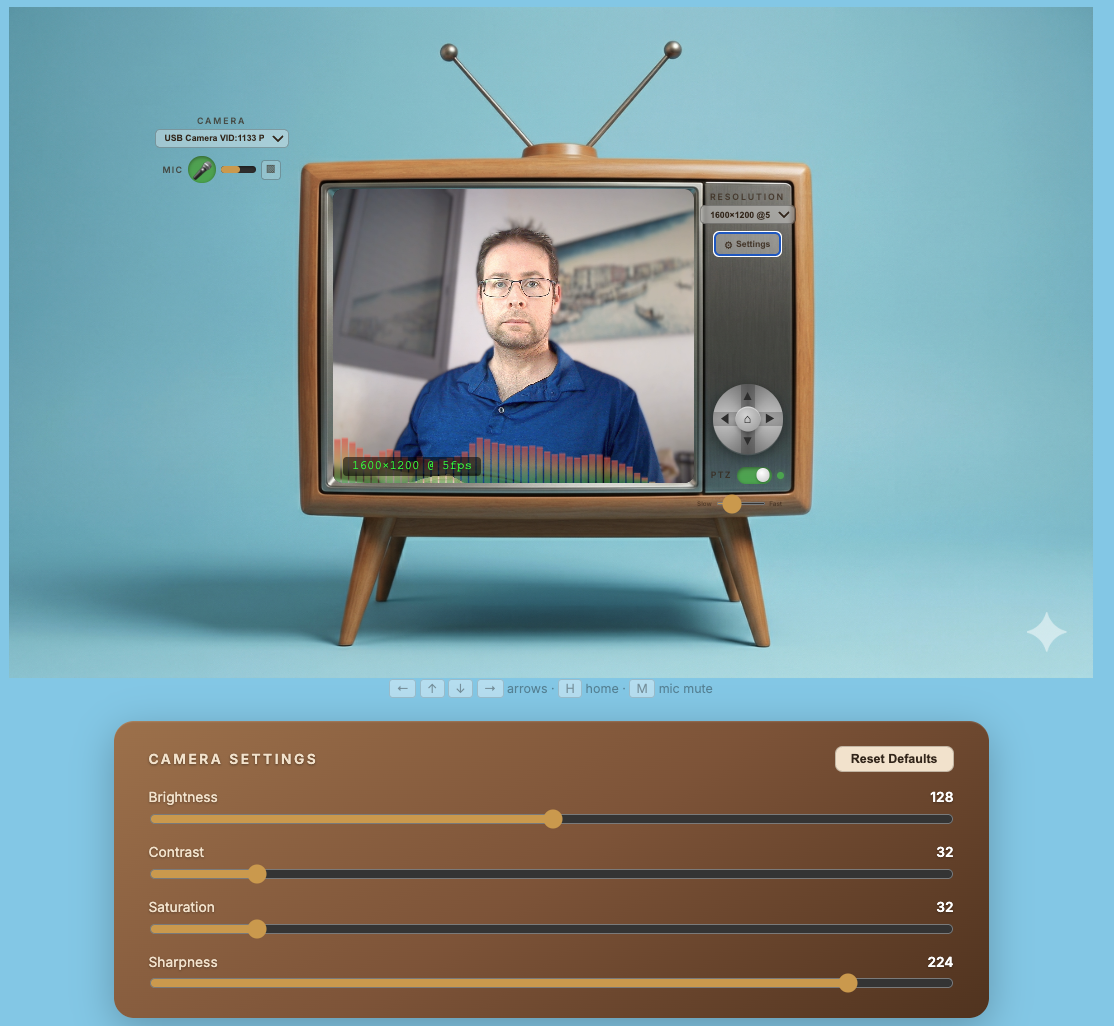
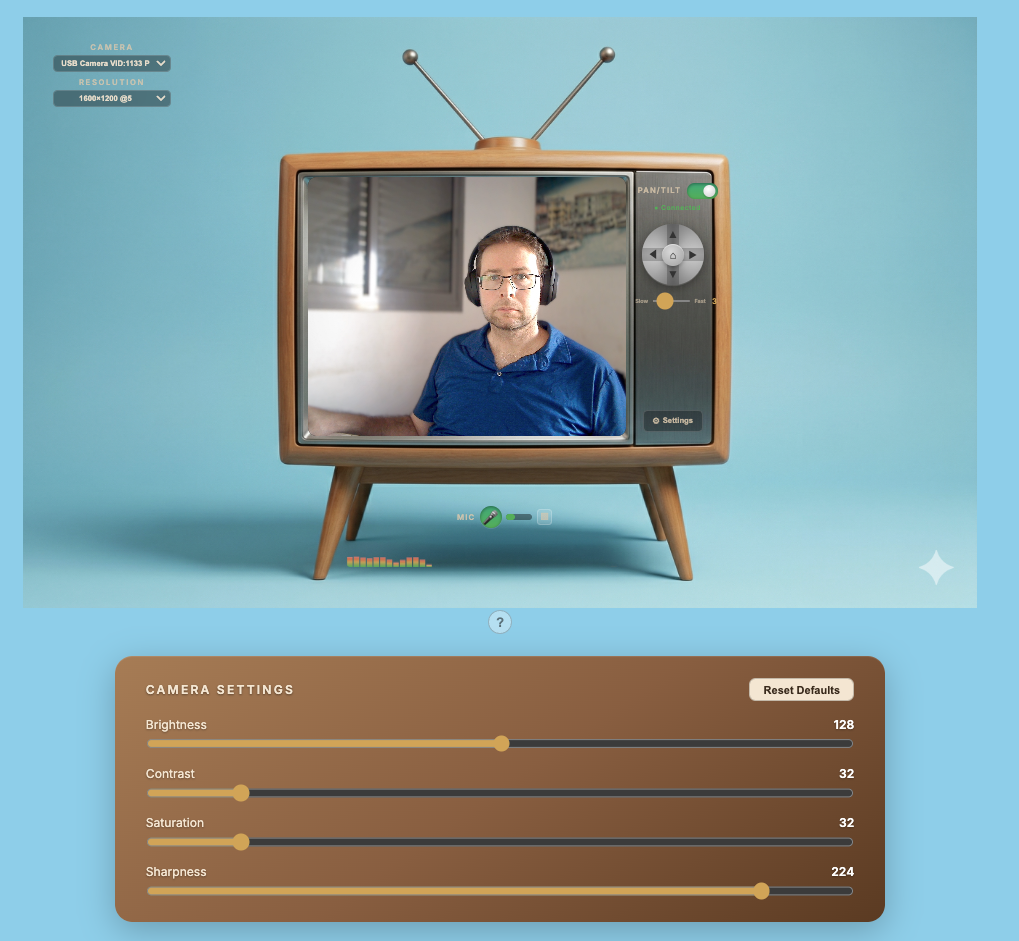
Update UI layout for retro TV interface: adjusted positions of controls for improved usability and alignment. Updated screenshot to reflect changes in the interface.

Changed region(s): [[0.0, 0.0, 1.0, 1.0]]

diff --git a/index.html b/index.html
@@ -551,17 +551,17 @@
   </div>
 
   <!-- Spectrum strip — sits just below the video frame -->
-  <canvas class="spectrum-strip" id="spectrumCanvas" style="top:72%;left:29.5%;width:34%;height:4%"></canvas>
+  <canvas class="spectrum-strip" id="spectrumCanvas" style="top:90.5%;left:33.5%;width:34%;height:4%"></canvas>
 
   <!-- Controls: all on the right panel -->
-  <div class="tv-el" id="el-camera" data-label="Camera Dropdown" style="top:16.5%;left:63%;width:14%">
+  <div class="tv-el" id="el-camera" data-label="Camera Dropdown" style="top:4.5%;left:1.5%;width:14%">
     <div class="cam-wrap">
       <span class="ctrl-lbl">Camera</span>
       <select id="cameraSelect" title="Select camera"><option value="">Loading…</option></select>
     </div>
   </div>
 
-  <div class="tv-el" id="el-mic" data-label="Microphone" style="top:24%;left:63%;width:14%">
+  <div class="tv-el" id="el-mic" data-label="Microphone" style="top:84%;left:43.5%;width:14%">
     <div class="mic-row">
       <span class="mic-lbl">Mic</span>
       <button class="mic-icon" id="micToggle" title="Click to enable mic · Double-click to stop">&#127908;</button>
@@ -570,14 +570,14 @@
     </div>
   </div>
 
-  <div class="tv-el" id="el-resolution" data-label="Resolution" style="top:30.5%;left:63%;width:14%">
+  <div class="tv-el" id="el-resolution" data-label="Resolution" style="top:10.5%;left:1.5%;width:14%">
     <div class="fmt-wrap">
       <span class="ctrl-lbl">Resolution</span>
       <select id="formatSelect" title="Select resolution and frame rate"><option>–</option></select>
     </div>
   </div>
 
-  <div class="tv-el" id="el-ptz" data-label="PTZ Toggle" style="top:38.5%;left:63%;width:14%">
+  <div class="tv-el" id="el-ptz" data-label="PTZ Toggle" style="top:28.5%;left:62%;width:14%">
     <div class="ptz-card">
       <div class="ptz-card-row">
         <span class="ptz-lbl">Pan/Tilt</span>
@@ -587,7 +587,7 @@
     </div>
   </div>
 
-  <div class="tv-el" id="el-dpad" data-label="D-Pad" style="top:50%;left:63%;width:14%">
+  <div class="tv-el" id="el-dpad" data-label="D-Pad" style="top:35.5%;left:61.5%;width:14%">
     <div class="dpad-wrap">
       <div class="dpad">
         <button class="dpad-btn" data-dir="up" title="Tilt Up">&#9650;</button>
@@ -599,7 +599,7 @@
     </div>
   </div>
 
-  <div class="tv-el" id="el-speed" data-label="Speed Slider" style="top:65%;left:61.5%;width:17%">
+  <div class="tv-el" id="el-speed" data-label="Speed Slider" style="top:48%;left:62%;width:14%">
     <div class="speed-row">
       <span class="spd-lbl">Slow</span>
       <input type="range" id="speedSlider" min="1" max="10" value="3" title="Pan/tilt speed">
@@ -608,7 +608,7 @@
     </div>
   </div>
 
-  <div class="tv-el" id="el-settings" data-label="Settings Button" style="top:72%;left:63%;width:14%">
+  <div class="tv-el" id="el-settings" data-label="Settings Button" style="top:67.5%;left:61.5%;width:14%">
     <button class="settings-btn" id="settingsBtn" title="Open camera image settings">
       <span class="gear">&#9881;</span> Settings
     </button>
